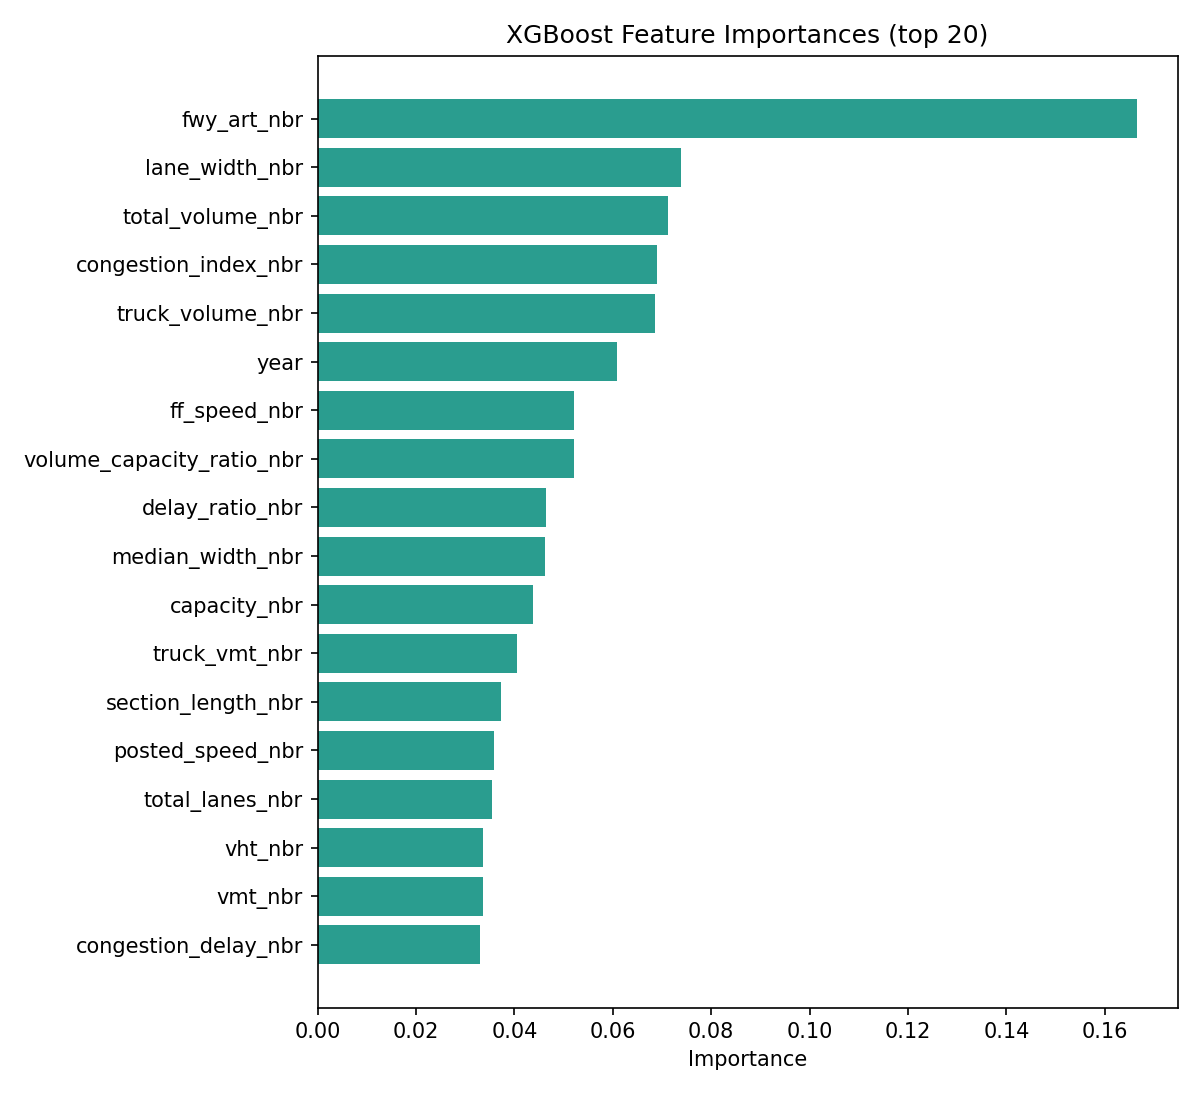
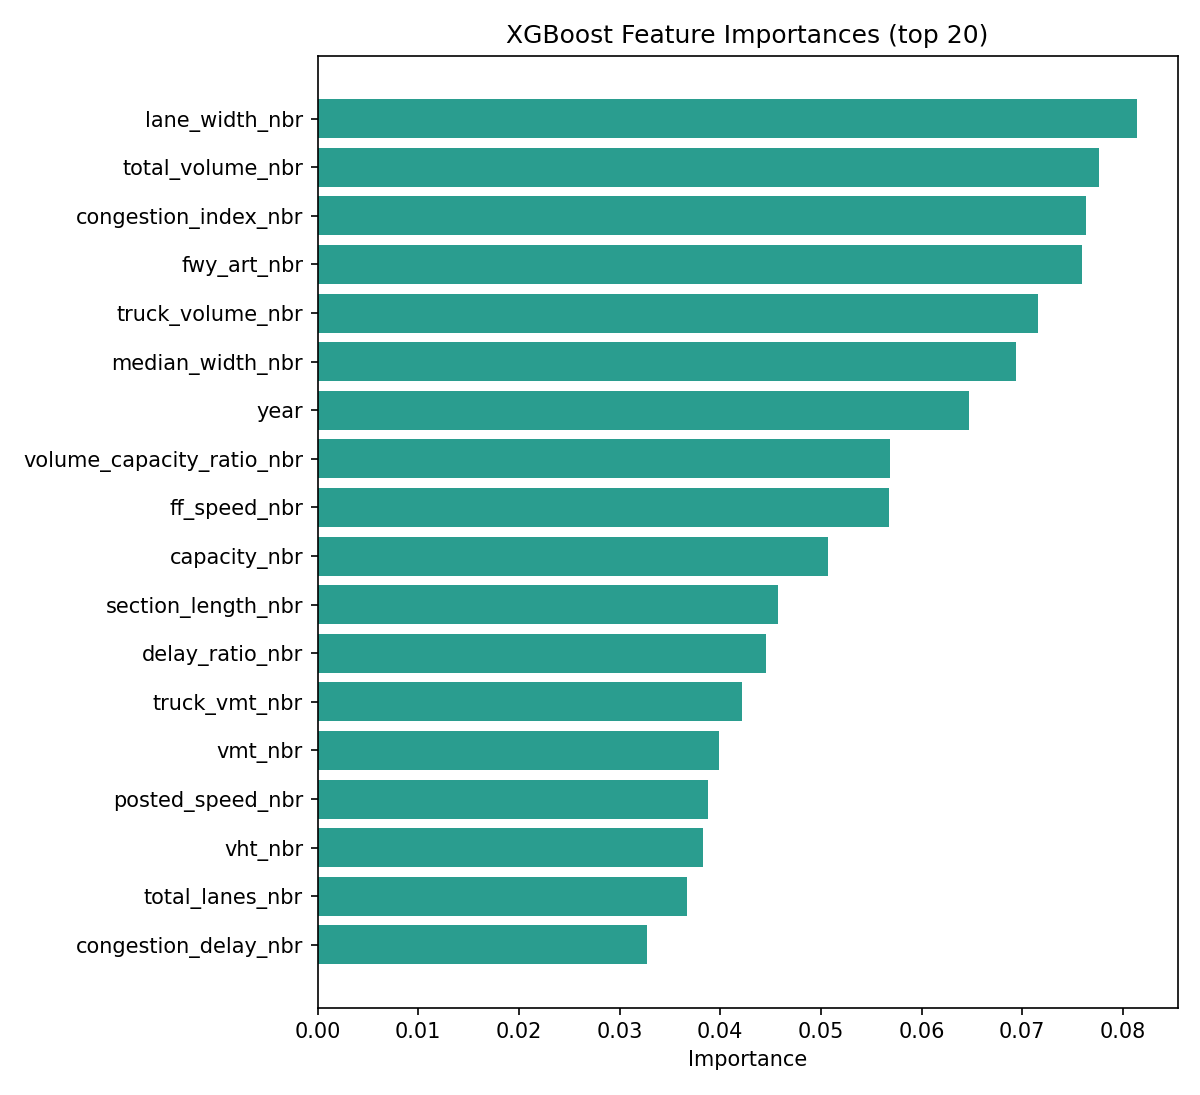
Update models, predictions, app, and project conclusion

diff --git a/app/dash_app.py b/app/dash_app.py
@@ -391,7 +391,7 @@ app.layout = html.Div([
                         html.Strong("CTForecast"),
                         " - Powered by XGBoost ML (R²=0.701) | ",
                         html.I(className="fas fa-database me-1"),
-                        "ODOT CMS 2019-2024 | ",
+                        "ODOT CMS 2019-2025 | ",
                         html.I(className="fas fa-map-marked-alt me-1"),
                         "3,570 Road Segments"
                     ], className="text-center text-muted small mb-2"),
@@ -621,19 +621,31 @@ def update_dashboard(scenario, threshold, route_search):
     )
     hist_fig.update_traces(marker=dict(line=dict(color='#5568d3', width=1)))
     
-    # Create data table with better column names and descriptions
-    table_df = filtered[[
-        'route_nbr', 'predicted_car_growth_nbr', 'total_volume_nbr',
-        'capacity_nbr', 'congestion_index_nbr', 'functional_class_cd'
-    ]].head(100).round(3)
+    # Create aggregated data table by route (one row per route)
+    table_df = filtered.groupby('route_nbr', as_index=False).agg({
+        'predicted_car_growth_nbr': ['mean', 'max', 'min'],
+        'total_volume_nbr': 'sum',
+        'capacity_nbr': 'mean',
+        'congestion_index_nbr': 'mean',
+        'section_length_nbr': 'sum' if 'section_length_nbr' in filtered.columns else 'count'
+    }).round(3)
+    
+    # Flatten multi-level columns
+    table_df.columns = ['route_nbr', 'avg_growth', 'max_growth', 'min_growth', 
+                        'total_volume', 'avg_capacity', 'avg_congestion', 'total_length']
+    
+    # Sort by max growth (highest risk routes first)
+    table_df = table_df.sort_values('max_growth', ascending=False).head(50)
     
     column_labels = {
         'route_nbr': 'Route',
-        'predicted_car_growth_nbr': 'Growth Rate',
-        'total_volume_nbr': 'Traffic Volume',
-        'capacity_nbr': 'Capacity',
-        'congestion_index_nbr': 'Congestion',
-        'functional_class_cd': 'Type'
+        'avg_growth': 'Avg Growth',
+        'max_growth': 'Max Growth',
+        'min_growth': 'Min Growth',
+        'total_volume': 'Total Volume',
+        'avg_capacity': 'Avg Capacity',
+        'avg_congestion': 'Avg Congestion',
+        'total_length': 'Total Length/Segments'
     }
     
     data_table = dash_table.DataTable(
@@ -648,10 +660,17 @@ def update_dashboard(scenario, threshold, route_search):
         },
         style_data_conditional=[
             {
-                'if': {'column_id': 'predicted_car_growth_nbr',
-                       'filter_query': '{predicted_car_growth_nbr} > 1'},
+                'if': {'column_id': 'max_growth',
+                       'filter_query': '{max_growth} > 1'},
                 'backgroundColor': '#ffcccc',
                 'color': 'darkred',
+                'fontWeight': 'bold'
+            },
+            {
+                'if': {'column_id': 'avg_growth',
+                       'filter_query': '{avg_growth} > 1'},
+                'backgroundColor': '#ffe6cc',
+                'color': 'darkorange',
                 'fontWeight': 'bold'
             }
         ],
@@ -659,11 +678,13 @@ def update_dashboard(scenario, threshold, route_search):
         filter_action='native',
         tooltip_header={
             'route_nbr': 'Road/Highway number (e.g., 70 = I-70)',
-            'predicted_car_growth_nbr': 'Predicted traffic growth rate as decimal (e.g., 0.50 = 50% growth, 1.0 = 100% growth)',
-            'total_volume_nbr': 'Current daily traffic volume',
-            'capacity_nbr': 'Maximum designed capacity',
-            'congestion_index_nbr': 'Congestion level (higher = more congested)',
-            'functional_class_cd': 'Highway classification'
+            'avg_growth': 'Average predicted growth rate across all segments of this route',
+            'max_growth': 'Maximum growth rate among all segments (identifies worst bottleneck)',
+            'min_growth': 'Minimum growth rate among all segments',
+            'total_volume': 'Sum of traffic volume across all segments',
+            'avg_capacity': 'Average capacity across all segments',
+            'avg_congestion': 'Average congestion level (higher = more congested)',
+            'total_length': 'Total route length or number of segments'
         },
         tooltip_delay=0,
         tooltip_duration=None

diff --git a/backend/scripts/predictions/predict_scenarios_2026.py b/backend/scripts/predictions/predict_scenarios_2026.py
@@ -57,17 +57,17 @@ def main():
     print("Columbus Traffic Growth: 2026 Scenario Analysis")
     print("="*70)
     
-    # Load 2024 baseline (most recent available year)
-    print("\nLoading 2024 Columbus District 6 baseline data...")
+    # Load 2025 baseline (most recent available year)
+    print("\nLoading 2025 Columbus District 6 baseline data...")
     df_all = load_all_data("backend/data")
     
-    # Filter to District 6, year 2024
-    df_2024_d6 = df_all[
+    # Filter to District 6, year 2025
+    df_2025_d6 = df_all[
         (df_all.get('odot_district') == 6) & 
-        (df_all.get('year') == 2024)
+        (df_all.get('year') == 2025)
     ].copy()
     
-    print(f"✓ Loaded {len(df_2024_d6)} road segments from District 6")
+    print(f"✓ Loaded {len(df_2025_d6)} road segments from District 6")
     
     # Define scenarios
     scenarios = {
@@ -109,7 +109,7 @@ def main():
         print(f"{'-'*70}")
         
         # Apply scenario transformations
-        df_scenario = apply_scenario(df_2024_d6, scenario_name, params)
+        df_scenario = apply_scenario(df_2025_d6, scenario_name, params)
         
         # Update year to 2026 and recompute time features
         df_scenario['year'] = 2026

diff --git a/ProjectConclusion.md b/ProjectConclusion.md
@@ -170,7 +170,7 @@ XGBRegressor(
    - **Confidence**: Longer forecasts would be less reliable
 
 3. **Static infrastructure**: Assumes no major road changes (widening, new construction)
-   - **Reality**: Infrastructure projects can invalidate predictions
+   - **Reality**: Infrastructure projects would change predictions
 
 ### Practical Limitations
 1. **"Black box" nature**: XGBoost is less interpretable than linear regression
@@ -319,7 +319,7 @@ This project demonstrates that:
 - **Interactive visualization** bridges the gap between technical models and policy decisions
 
 ### Final Reflection
-We learned that building a robust prediction system requires equal attention to data quality, model optimization, and stakeholder communication. The technical challenge of achieving R² = 0.701 was matched by the organizational challenge of structuring code for maintainability and creating visualizations for accessibility.
+We learned that building a robust prediction system requires equal attention to data quality, model optimization, and communication. The technical challenge of achieving R² = 0.701 was matched by the organizational challenge of structuring code for maintainability and creating visualizations for accessibility.
 
 Our hope is that ODOT and Columbus planners in the near future could confidently use this tool to make evidence-based infrastructure decisions, prioritizing investments where capacity constraints are most severe. While our model isn't perfect, no model is, it provides a data-driven starting point for conversations about where Columbus needs to build, widen, and improve its road network.
 
